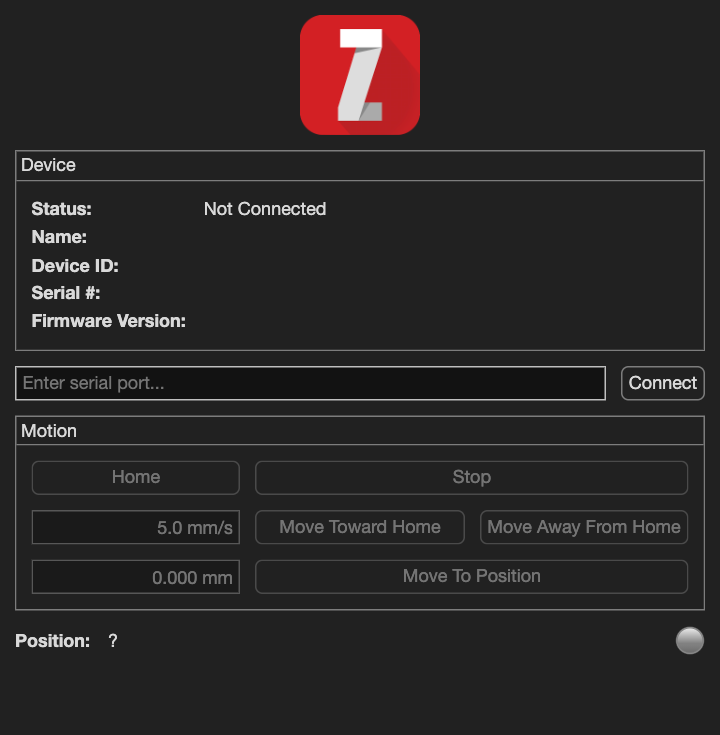
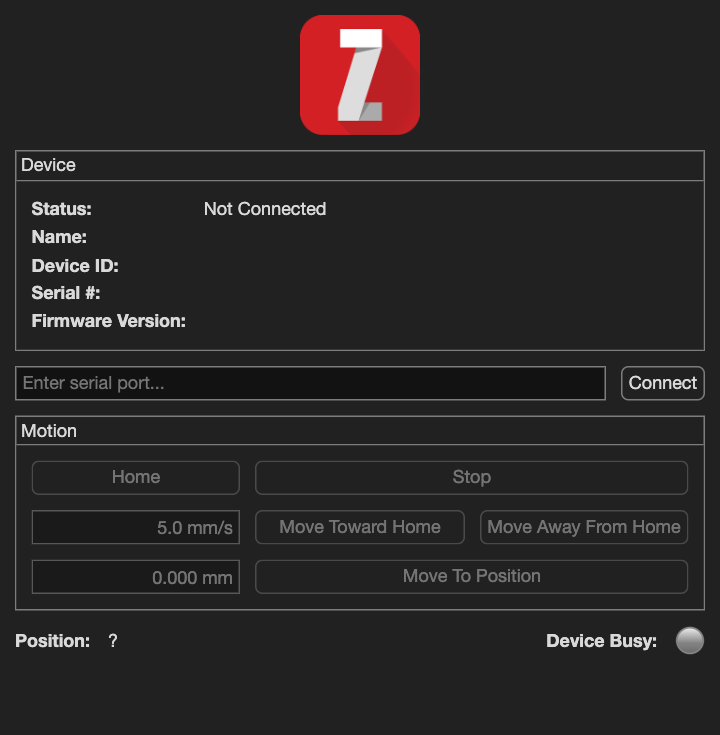
Add label to lamp

Changed region(s): [[0.7639, 0.868, 0.9167, 0.898]]

diff --git a/examples/gui_matlab_uifigure/src/desktop_app.m b/examples/gui_matlab_uifigure/src/desktop_app.m
@@ -64,12 +64,12 @@ function desktop_app()
         awayFromHomeButton absPositionField moveAbsoluteButton];
     set(motionControls, Enable="off");
 
-    % Position readout and motion indicator
-    positionLayout = uigridlayout(layout, [1 3], ColumnWidth={'fit', '1x', 'fit'}, Padding=0);
-    uilabel(positionLayout, Text="Position:", FontWeight="bold");
-    positionValue = uilabel(positionLayout, Text="?");
-    movingLamp = uilamp(positionLayout, Color=[0.5 0.5 0.5], ...
-        Tooltip="Green while the axis is moving");
+    % Live status: position readout and motion indicator
+    liveStatusLayout = uigridlayout(layout, [1 4], ColumnWidth={'fit', '1x', 'fit', 'fit'}, Padding=0);
+    uilabel(liveStatusLayout, Text="Position:", FontWeight="bold");
+    positionValue = uilabel(liveStatusLayout, Text="?");
+    uilabel(liveStatusLayout, Text="Device Busy:", FontWeight="bold");
+    movingLamp = uilamp(liveStatusLayout, Color=[0.5 0.5 0.5]);
 
     errorLabel = uilabel(layout, Text="", FontColor=[0.8 0 0], WordWrap="on");
 
